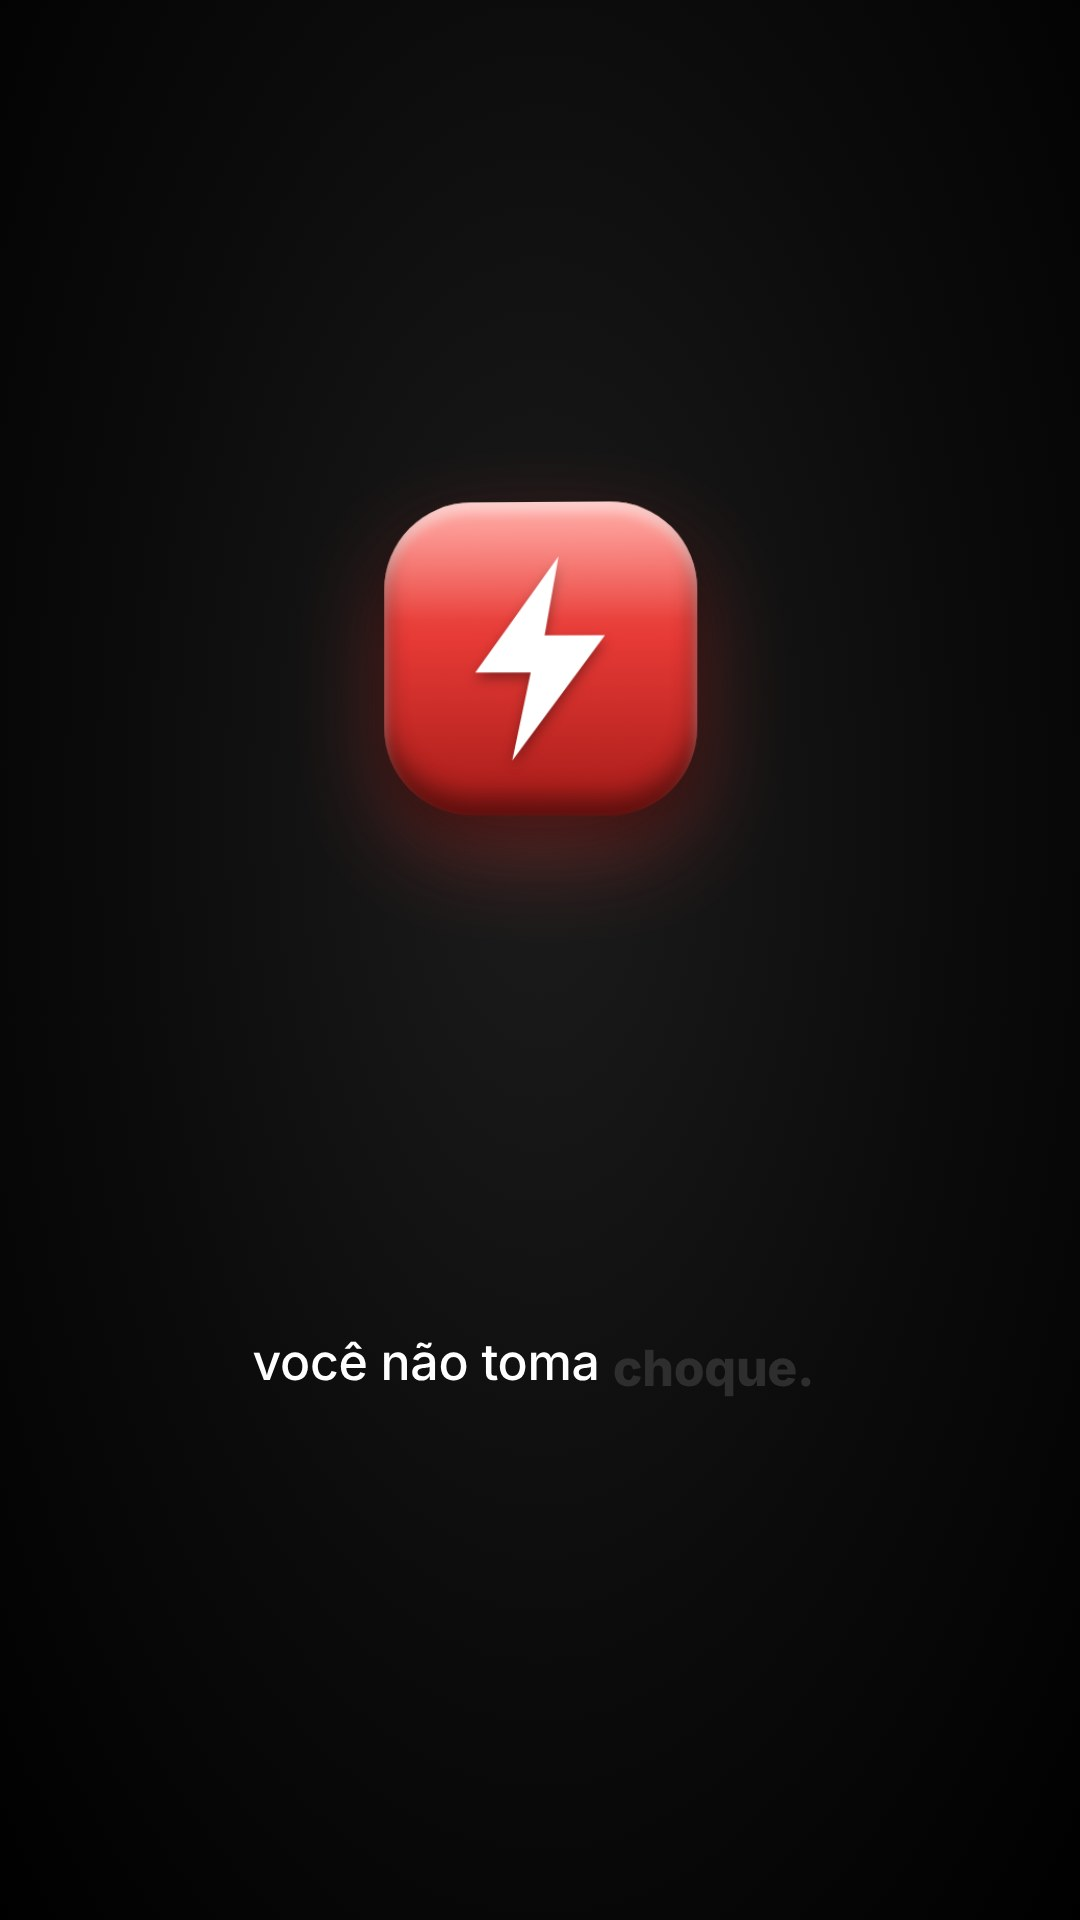
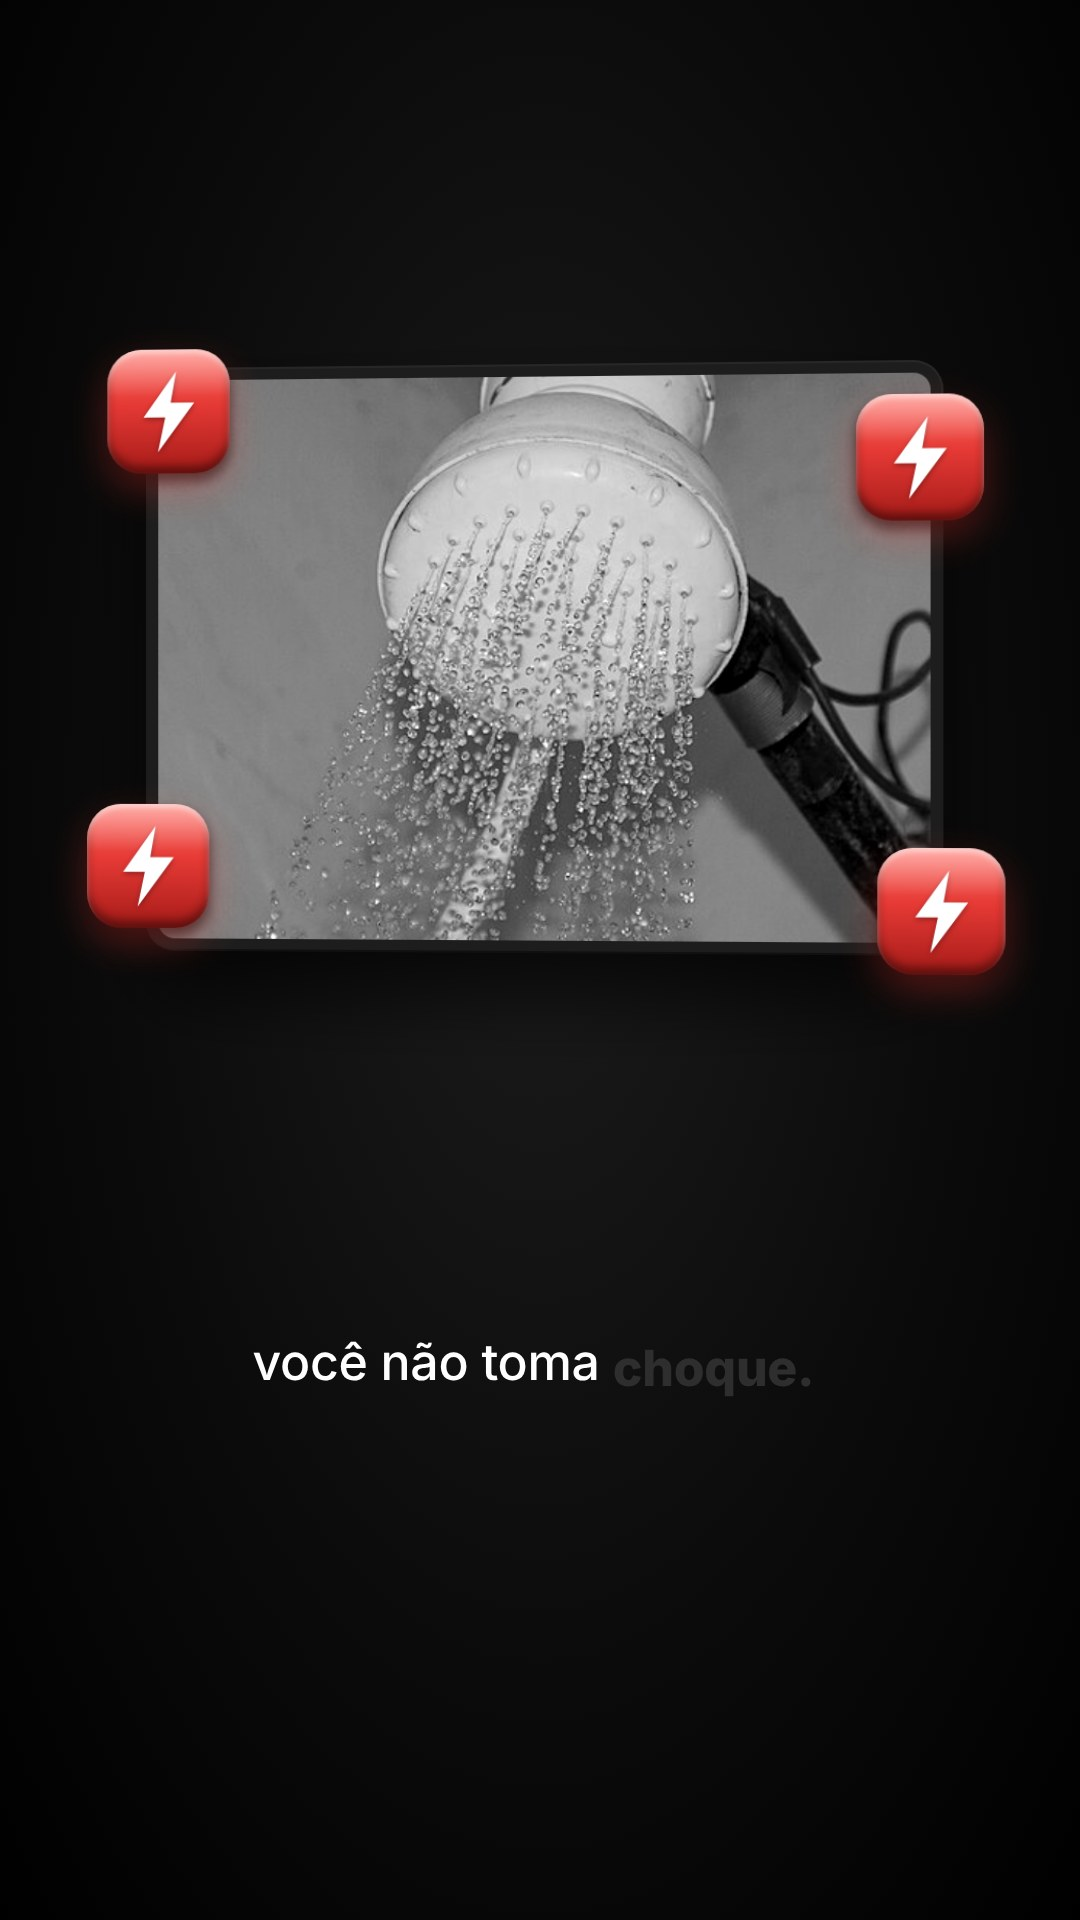
Chuveiro e Terra com fotos reais em moldura; velocímetro; contador sem anel
Claude-Session: https://claude.ai/code/session_01RMhrmGVZ8xvx14hiJXZHtB

Changed region(s): [[0.0611, 0.1562, 0.9472, 0.5312]]

diff --git a/src/cenas/Visual.tsx b/src/cenas/Visual.tsx
@@ -169,34 +169,19 @@ export const Visual: React.FC<{ v: V; slug: string; roteiro: Roteiro }> = ({ v, 
       break;
     }
     case "contador": {
+      // número grande sem anel (dono não gostou do círculo): ícone acima, número, linha e rótulo
       const p = interpolate(f, [2, Math.min(28, d * 0.6)], [0, 1], { ...cl, easing: Easing.out(Easing.cubic) });
       const valor = Math.round(v.de + (v.para - v.de) * p);
       const texto = (v.para >= 10000 || v.sufixo !== undefined ? valor.toString().replace(/\B(?=(\d{3})+(?!\d))/g, ".") : String(valor)) + (v.sufixo ?? "");
-      const r = 260;
-      const circ = 2 * Math.PI * r;
+      const linha = interpolate(f, [6, 22], [0, 1], { ...cl, easing: Easing.out(Easing.cubic) });
       conteudo = (
         <>
-          <svg width={1080} height={1300} style={{ position: "absolute", left: 0, top: 0 }}>
-            <circle cx={CX} cy={CY} r={r} stroke="#262626" strokeWidth={22} fill="none" />
-            <circle
-              cx={CX}
-              cy={CY}
-              r={r}
-              stroke="#ffffff"
-              strokeWidth={22}
-              fill="none"
-              strokeDasharray={circ}
-              strokeDashoffset={circ * (1 - p)}
-              strokeLinecap="round"
-              transform={`rotate(-90 ${CX} ${CY})`}
-            />
-            <circle cx={CX} cy={CY} r={r + 60} stroke="#1a1a1a" strokeWidth={2} fill="none" />
-          </svg>
-          <Rotulo texto={texto} y={CY + 10} tam={texto.length >= 5 ? 140 : 190} cor="#ffffff" />
-          {v.rotulo ? <Rotulo texto={v.rotulo} y={CY + 130} tam={34} cor="#8a8a8a" /> : null}
-          <Entra x={CX} y={CY - 190} atraso={2} de={0.4}>
-            <Icone3D nome={v.nome} tamanho={130} />
+          <Entra x={CX} y={CY - 250} atraso={2} de={0.4}>
+            <Icone3D nome={v.nome} tamanho={150} />
           </Entra>
+          <Rotulo texto={texto} y={CY + 10} tam={texto.length >= 5 ? 190 : 240} cor="#ffffff" />
+          <div style={{ position: "absolute", left: CX - 220 * linha, top: CY + 150, width: 440 * linha, height: 4, borderRadius: 2, background: "#5a5a5a" }} />
+          {v.rotulo ? <Rotulo texto={v.rotulo} y={CY + 210} tam={36} cor="#9a9a9a" /> : null}
         </>
       );
       break;
@@ -307,6 +292,48 @@ export const Visual: React.FC<{ v: V; slug: string; roteiro: Roteiro }> = ({ v, 
       break;
     }
 
+    case "velocimetro": {
+      // velocímetro em linha (igual Titanic): arco cinza, arco ativo branco→vermelho, ponteiro subindo
+      const p = interpolate(f, [3, Math.min(30, d * 0.6)], [0, 1], { ...cl, easing: Easing.out(Easing.cubic) });
+      const valor = Math.round(v.valor * p);
+      const R = 270;
+      const cy = CY + 60;
+      const ang = (t: number) => Math.PI + t * Math.PI; // 180° → 360°
+      const pt = (t: number, r: number) => [CX + Math.cos(ang(t)) * r, cy + Math.sin(ang(t)) * r];
+      const arco = (t0: number, t1: number, r: number) => {
+        const [x0, y0] = pt(t0, r);
+        const [x1, y1] = pt(t1, r);
+        return `M${x0} ${y0} A ${r} ${r} 0 0 1 ${x1} ${y1}`;
+      };
+      const frac = Math.min(1, (v.valor / v.max) * p);
+      const [nx, ny] = pt(frac, R - 40);
+      const cor = v.vermelho && p > 0.6 ? "#E53935" : "#ffffff";
+      const fmt = valor.toString().replace(/\B(?=(\d{3})+(?!\d))/g, ".");
+      conteudo = (
+        <>
+          {v.imagem ? (
+            <div style={{ position: "absolute", left: CX, top: cy - R - 150, transform: "translate(-50%,-50%)", opacity: 0.9 }}>
+              <FotoMoldura src={`${slug}/${v.imagem}`} largura={300} altura={200} />
+            </div>
+          ) : null}
+          <svg width={1080} height={1300} style={{ position: "absolute", left: 0, top: 0 }}>
+            <circle cx={CX} cy={cy} r={R + 40} fill="#141414" stroke="#262626" strokeWidth={3} />
+            <path d={arco(0, 1, R)} stroke="#3a3a3a" strokeWidth={26} fill="none" strokeLinecap="round" />
+            {frac > 0.001 ? <path d={arco(0, frac, R)} stroke={cor} strokeWidth={26} fill="none" strokeLinecap="round" /> : null}
+            {Array.from({ length: 11 }).map((_, k) => {
+              const [x0, y0] = pt(k / 10, R - 34);
+              const [x1, y1] = pt(k / 10, R - (k % 5 === 0 ? 70 : 54));
+              return <line key={k} x1={x0} y1={y0} x2={x1} y2={y1} stroke="#6a6a6a" strokeWidth={4} strokeLinecap="round" />;
+            })}
+            <line x1={CX} y1={cy} x2={nx} y2={ny} stroke="#ffffff" strokeWidth={12} strokeLinecap="round" />
+            <circle cx={CX} cy={cy} r={22} fill="#ffffff" />
+          </svg>
+          <Rotulo texto={fmt} y={cy + 120} tam={110} cor={cor} />
+          <Rotulo texto={v.unidade ?? "KM/H"} y={cy + 200} tam={34} cor="#8a8a8a" />
+        </>
+      );
+      break;
+    }
     case "jato": {
       // chuveiro no alto; abaixo o jato: contínuo ou quebrado em gotas (com ar entre elas)
       const topo = 360;

diff --git a/src/tipos.ts b/src/tipos.ts
@@ -8,6 +8,7 @@ export type Visual =
   | { tipo: "icones"; itens: { nome: string; variante?: Cor; marca?: "x" }[] }
   | { tipo: "navio"; carga?: string[]; variante?: Cor }
   | { tipo: "contador"; de: number; para: number; nome: string; rotulo?: string; sufixo?: string }
+  | { tipo: "velocimetro"; valor: number; max: number; unidade?: string; vermelho?: boolean; imagem?: string }
   | { tipo: "jato"; gotas: boolean; raio?: boolean }
   | { tipo: "vento"; itens: string[] }
   | { tipo: "planeta"; modo: "girando" | "polos" | "parado"; rotulo?: string }

diff --git a/videos/2026-11-24-chuveiro-choque/imagens/FONTES.md b/videos/2026-11-24-chuveiro-choque/imagens/FONTES.md
@@ -1,7 +1,12 @@
 # Fontes das imagens
 | Arquivo | Obra / autor | Fonte | Licença |
 |---|---|---|---|
+| chuveiro.jpg | Ducha Electrica — Ivan2010 | https://commons.wikimedia.org/wiki/File:Ducha_Electrica.jpg | CC BY-SA 4.0 |
+| fios.jpg | Electric Shower, Nebaj Guatemala — Gabriel White | https://commons.wikimedia.org/wiki/File:Electric_Shower,_Nebaj_Guatemala.jpg | CC BY-SA 2.0 |
+| gotas.jpg | Flash photo shower faucet | https://commons.wikimedia.org/wiki/File:Flash_photo_shower_faucet_Watr200.jpg | CC BY-SA 2.5 |
+| dr.jpg | Residual current device 2pole — Jimbob82 | https://commons.wikimedia.org/wiki/File:Residual_current_device_2pole.jpg | Domínio público |
+| eletricista.jpg | Electrician Working (Flickr) | https://commons.wikimedia.org/wiki/File:Electrician_Working.jpg | CC BY 2.0 |
 
 # Fontes dos fatos
-- Fio terra drena fuga de corrente para o solo; NBR 5410 exige DR nos circuitos de áreas molhadas (banheiro): O Setor Elétrico, "NBR 5410 – Instalações elétricas em banheiros"; Canaltech, "Chuveiro elétrico é perigoso?".
-- Choque no registro indica falha de aterramento / fuga de corrente (Correio/Tupi, "Veja como evitar choques ao ligar o registro do chuveiro").
+- Fio terra drena fuga de corrente para o solo; NBR 5410 exige DR nos circuitos de áreas molhadas (banheiro): O Setor Elétrico, "NBR 5410 – Instalações elétricas em banheiros"; Canaltech.
+- Choque no registro indica falha de aterramento / fuga de corrente (Correio/Tupi).

diff --git a/estilo/GUIA.md b/estilo/GUIA.md
@@ -19,6 +19,8 @@ Wizebot e Cervello (`referencias/movimento-*`) são só referência de **técnic
 - A legenda mostra só o trecho da frase atual, não o texto todo.
 
 ## Elementos visuais
+- **Fotos reais em moldura em boa parte das cenas, igual ao Titanic** (dono, 2026-11-24): não só dentro dos ícones. Momento de perigo = foto + ícones vermelhos em volta.
+- **Velocidade = velocímetro em linha** (tipo `velocimetro`), como no Titanic. **Números = número grande sem anel** (o dono não gostou do círculo em volta do número).
 - **Fotos reais** (P&B quando históricas) em molduras arredondadas (raio ~18 px, borda escura grossa, sombra), flutuando com leve movimento/zoom. Ex.: navio, iceberg, capitão, navio vizinho, bote.
 - **Ícones 3D** estilo "app icon": azulejo arredondado com volume (brilho no topo, sombra embaixo), **branco** com símbolo escuro, ou **vermelho** com símbolo branco (alerta, cadeado). Pequenos ícones-satélite desfocados em volta do principal dão profundidade.
   - **Coisas reais = foto real P&B dentro do azulejo** (dono, 2026-11-23): café, cavalo, boi, tomate etc. viram foto livre em preto e branco recortada no ícone (`fotosIcones` no roteiro.json). Símbolos abstratos (alerta, X, setas, pessoa) continuam desenhados.

diff --git a/videos/2026-11-24-terra-parasse/imagens/FONTES.md b/videos/2026-11-24-terra-parasse/imagens/FONTES.md
@@ -9,3 +9,6 @@
 - Parada brusca: atmosfera e oceanos seguem a ~1.600 km/h; com o tempo oceanos migram para os polos e surge faixa de terra no equador; sem rotação, um dia solar dura um ano (Astronomy.com; Discover; WorldAtlas).
 - Rajada mais forte já medida: 408 km/h (ciclone Olivia, Austrália, 1996) → 1.600/408 ≈ 4×.
 - Freio da Lua (atrito das marés): dia fica ~1,8–2,3 ms mais longo por século (Scientific American; CORDIS).
+| furacao.jpg | Hurricane Florence viewed from the Space Station — NASA | https://commons.wikimedia.org/wiki/File:Hurricane_Florence_Viewed_from_the_Space_Station.jpg | Domínio público |
+| onibus.jpg | Bus passengers in Russia — Ilya Plekhanov | https://commons.wikimedia.org/wiki/File:Bus_passengers_in_Russia.jpg | CC BY-SA 3.0 |
+| oceano.jpg | Drone view of ocean waves — Caleb Jones (Unsplash) | https://commons.wikimedia.org/wiki/File:Drone_view_of_ocean_waves_(Unsplash).jpg | CC0 |
